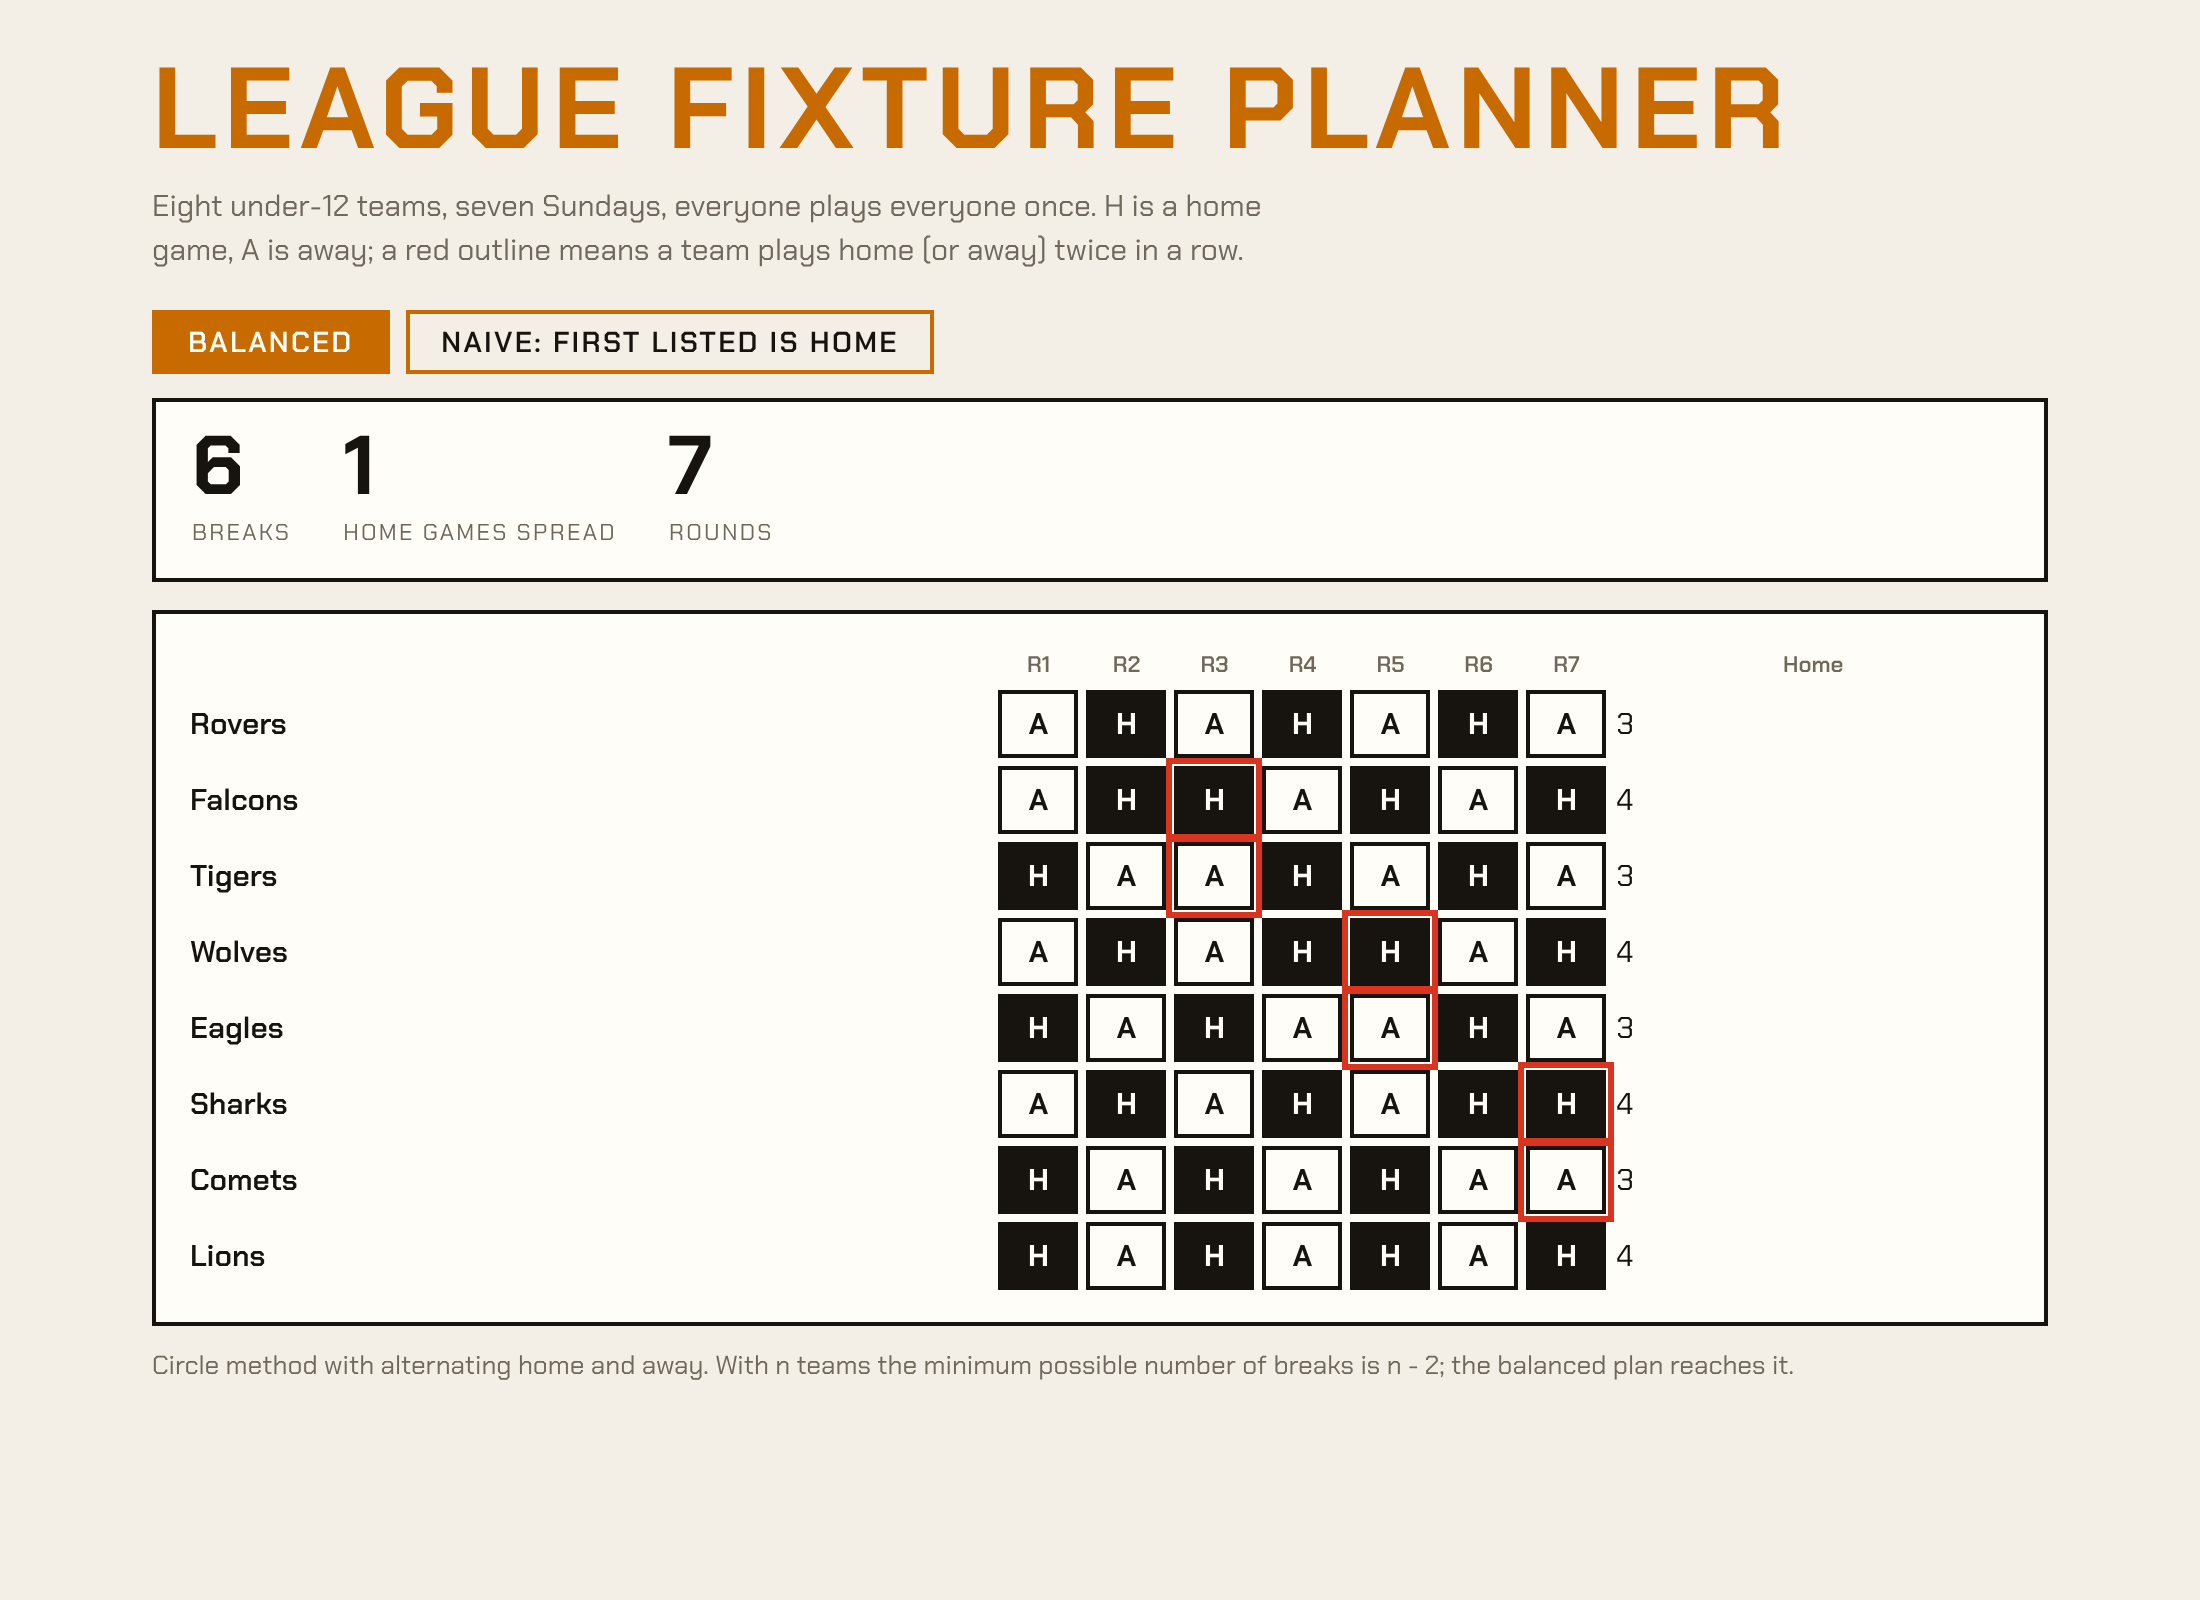
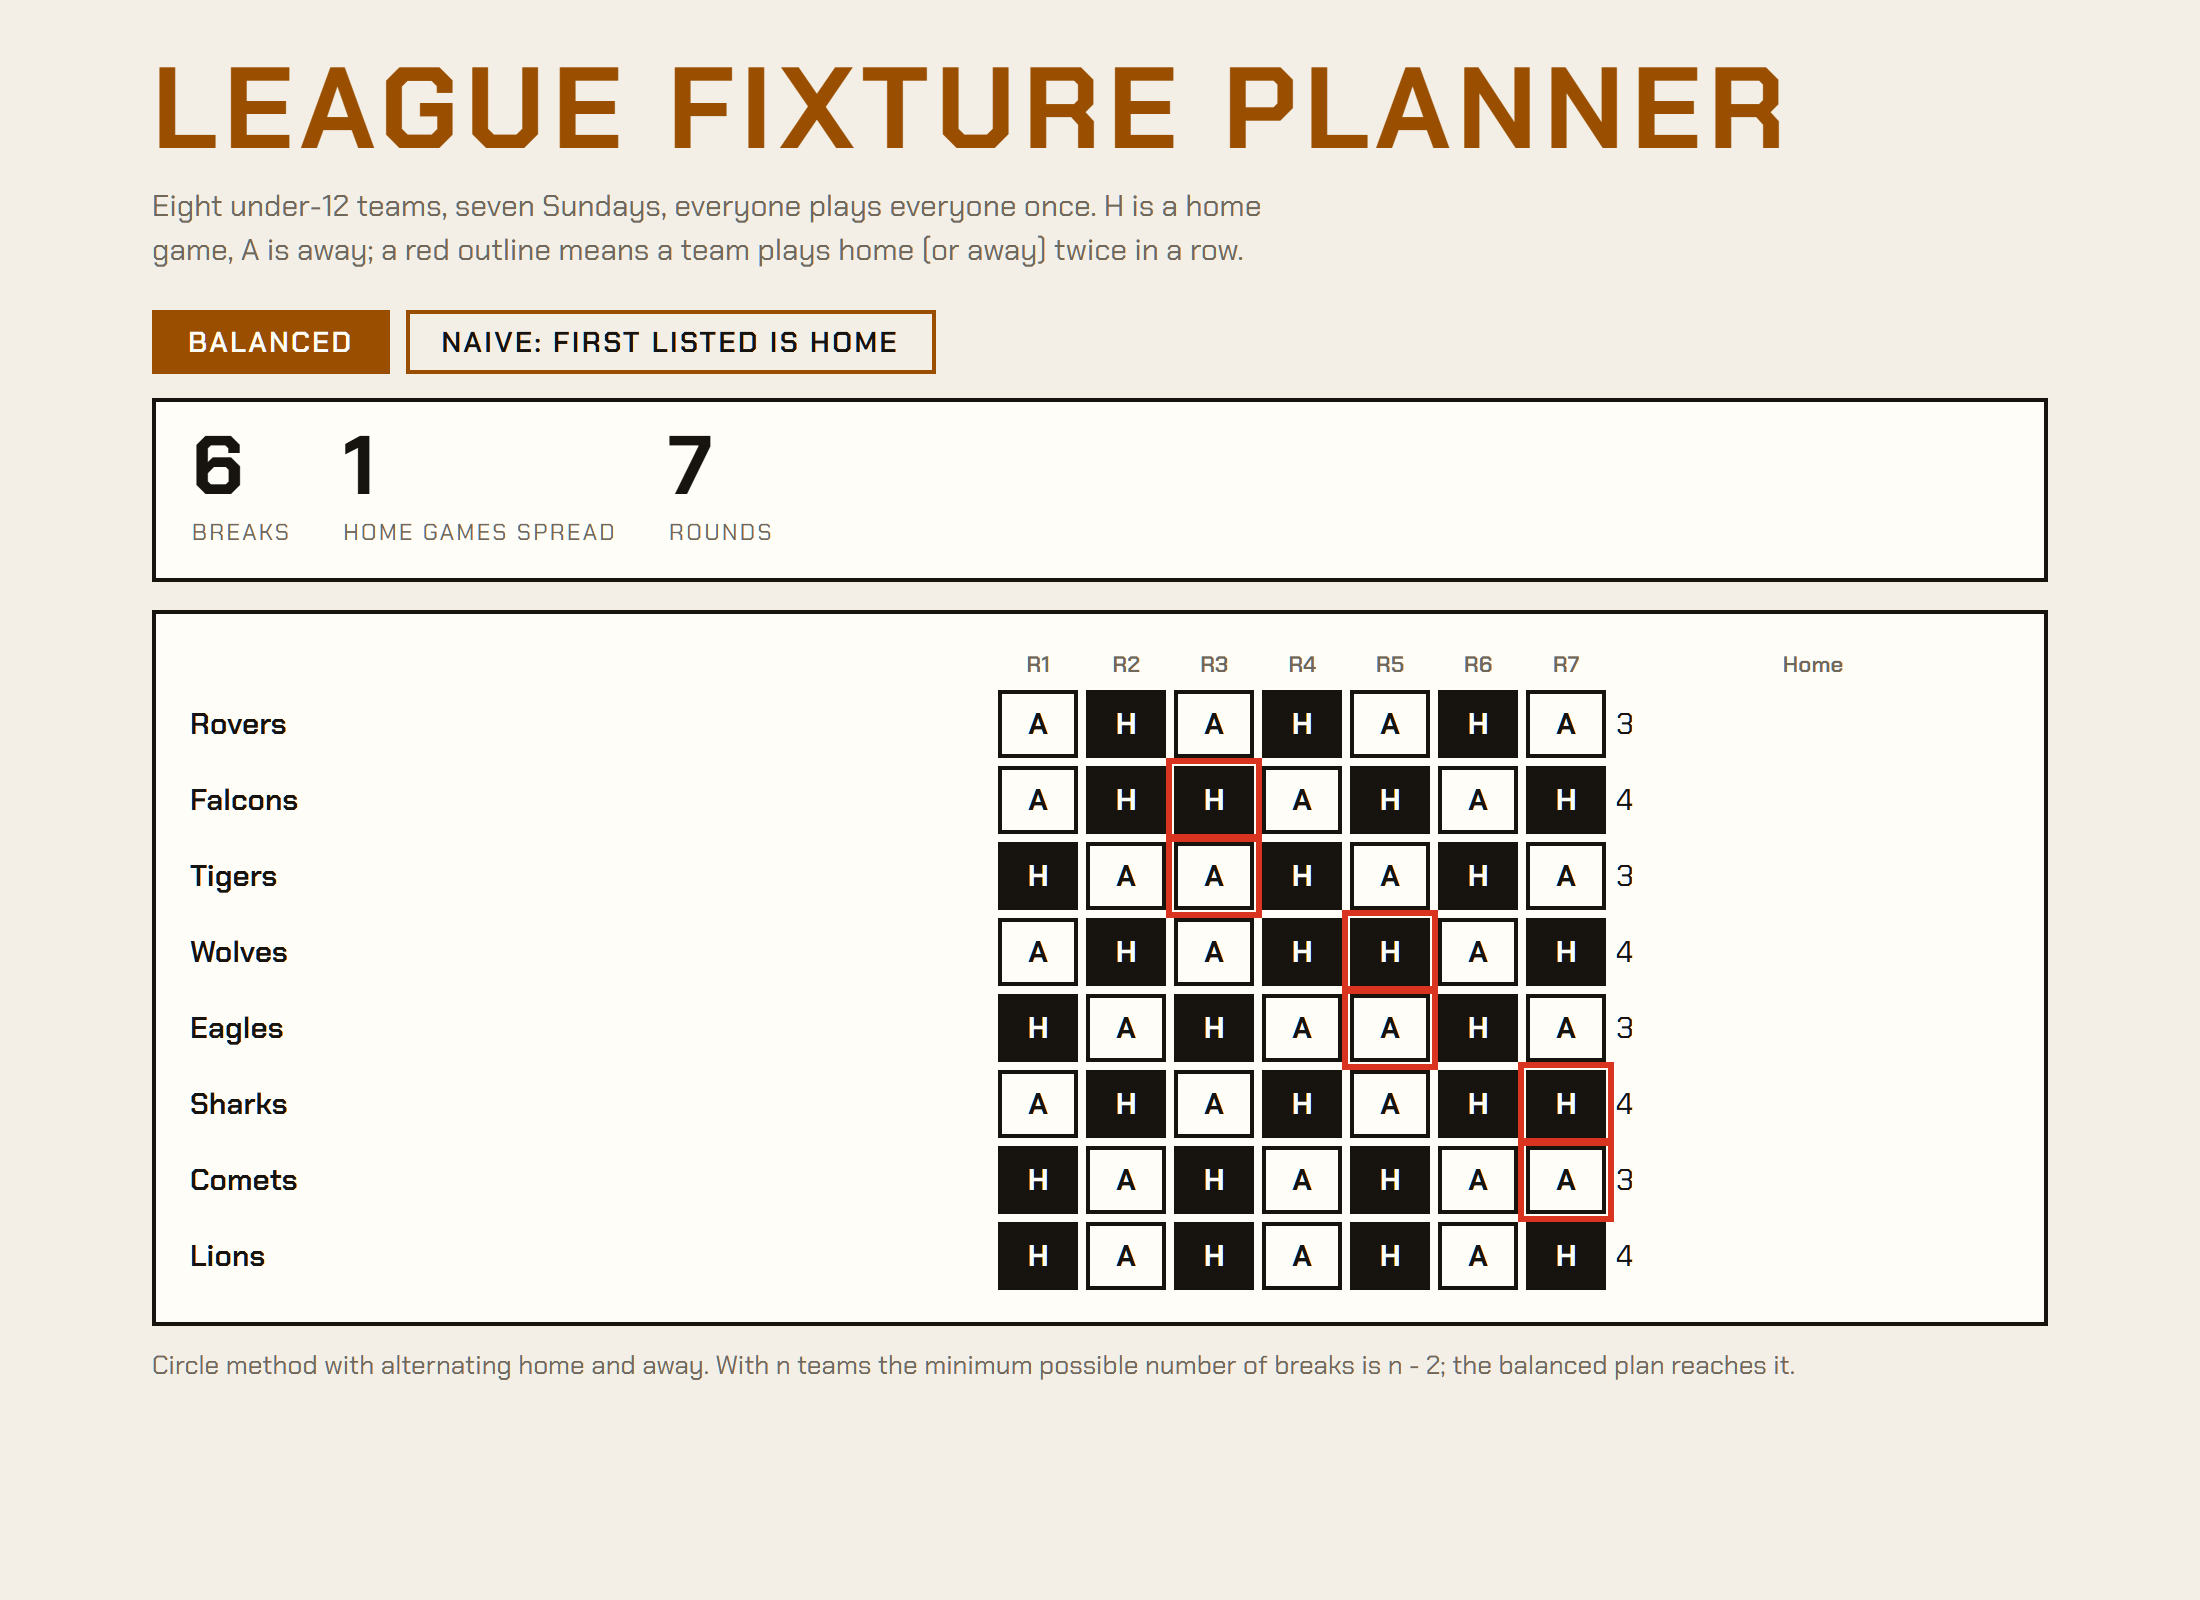
Improve league-fixture-planner

diff --git a/projects/league-fixture-planner/static/index.html b/projects/league-fixture-planner/static/index.html
@@ -1,7 +1,7 @@
 <!doctype html><html lang="en"><head><meta charset="utf-8"><meta name="viewport" content="width=device-width,initial-scale=1"><title>League Fixture Planner</title>
 <link href="https://fonts.googleapis.com/css2?family=Chakra+Petch:wght@400;600;700&display=swap" rel="stylesheet">
 <style>
-:root{--bg:#f3efe6;--panel:#fffdf7;--ink:#17140f;--mute:#6f685b;--amber:#c76a00;--led:#17140f;--home:#17140f;--away:#fffdf7;--brk:#d8341f;--line:#d9d1bf}
+:root{--bg:#f3efe6;--panel:#fffdf7;--ink:#17140f;--mute:#6f685b;--amber:#9a4f00;--led:#17140f;--home:#17140f;--away:#fffdf7;--brk:#d8341f;--line:#d9d1bf}
 @media(prefers-color-scheme:dark){:root{--bg:#0b0a08;--panel:#16130e;--ink:#ffe2a8;--mute:#a58f63;--amber:#ffb02e;--led:#ffb02e;--home:#ffb02e;--away:#16130e;--brk:#ff5a45;--line:#3a3220}}
 *{box-sizing:border-box}body{margin:0;background:var(--bg);color:var(--ink);font:15px/1.5 "Chakra Petch",sans-serif}
 main{max-width:980px;margin:auto;padding:26px 16px 56px}
@@ -24,5 +24,5 @@ $("bd").innerHTML=`<div><b>${x.breaks}</b><span>breaks</span></div><div><b>${x.h
 const teams=D.teams,side=teams.map(()=>[]);x.rounds.forEach((rd,r)=>{rd.forEach(g=>{side[teams.indexOf(g.home)][r]="H";side[teams.indexOf(g.away)][r]="A"})});
 $("t").innerHTML=`<tr><th></th>${x.rounds.map((_,i)=>`<th>R${i+1}</th>`).join("")}<th>Home</th></tr>`+teams.map((t,i)=>`<tr><td class="t">${t}</td>${side[i].map((s,r)=>`<td class="c ${s=="H"?"h":"a"} ${r&&side[i][r-1]==s?"b":""}">${s||"-"}</td>`).join("")}<td>${x.home_games[t]}</td></tr>`).join("")}
 $("bb").onclick=()=>{cur="balanced";show()};$("bn").onclick=()=>{cur="naive";show()};
-(async()=>{D=await (await fetch("/sample")).json();R=await (await fetch("/schedule",{method:"POST",headers:{"Content-Type":"application/json"},body:JSON.stringify(D)})).json();show()})();
+(async()=>{try{D=await (await fetch("/sample")).json();R=await (await fetch("/schedule",{method:"POST",headers:{"Content-Type":"application/json"},body:JSON.stringify(D)})).json();show()}catch(e){$("bd").textContent="Could not build the fixtures. Refresh to try again.";$("t").innerHTML=""}})();
 </script></body></html>

diff --git a/projects/league-fixture-planner/tests/test_all.py b/projects/league-fixture-planner/tests/test_all.py
@@ -82,3 +82,9 @@ def test_api():
 
 def test_api_validation():
     assert c.post("/schedule", json={"teams": ["only"]}).status_code == 422
+
+
+def test_index_has_error_text_and_light_amber():
+    page = c.get("/").text
+    assert "Could not build the fixtures" in page
+    assert "--amber:#9a4f00" in page
